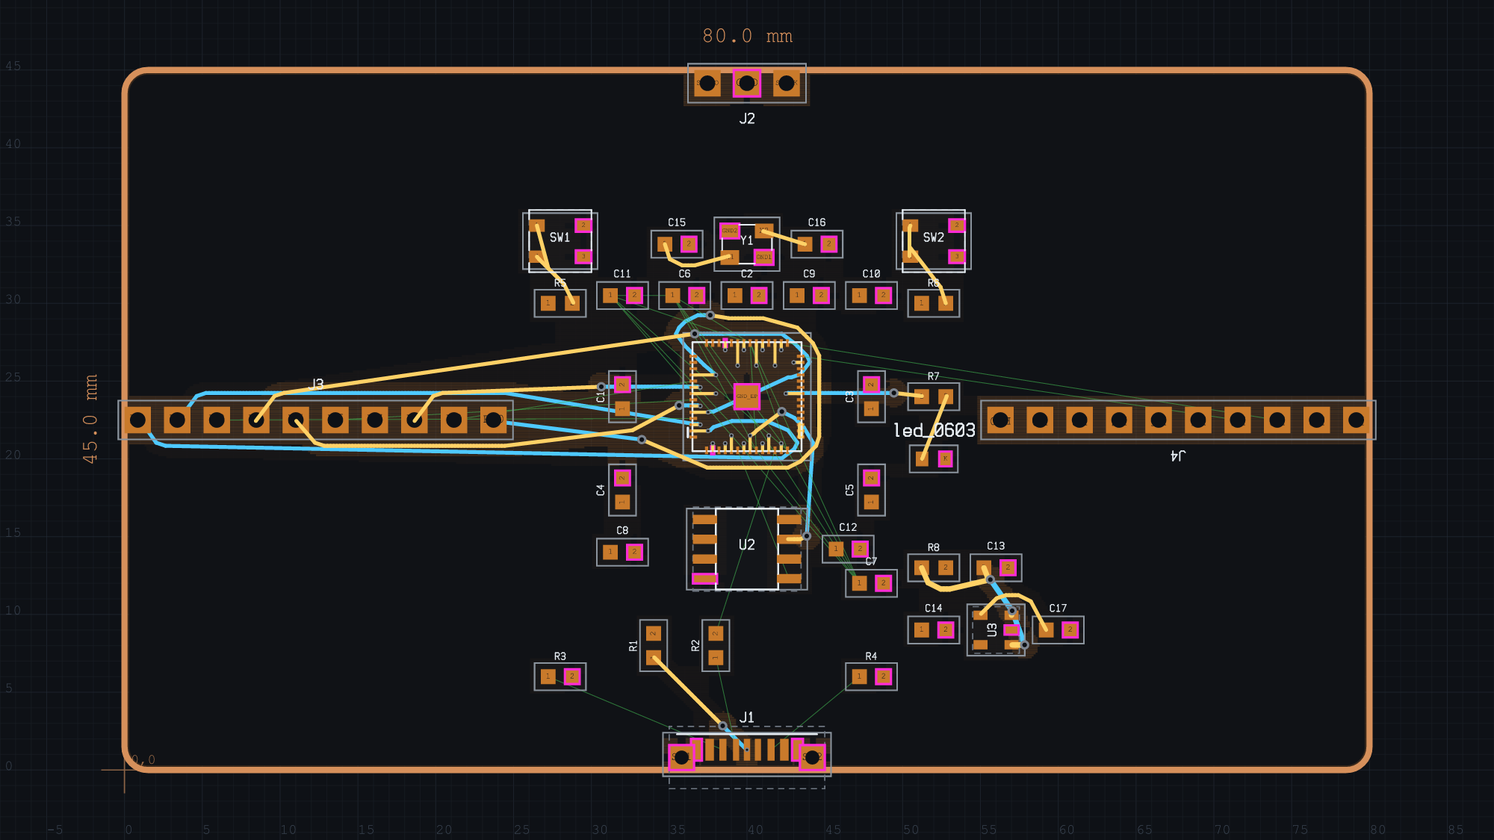
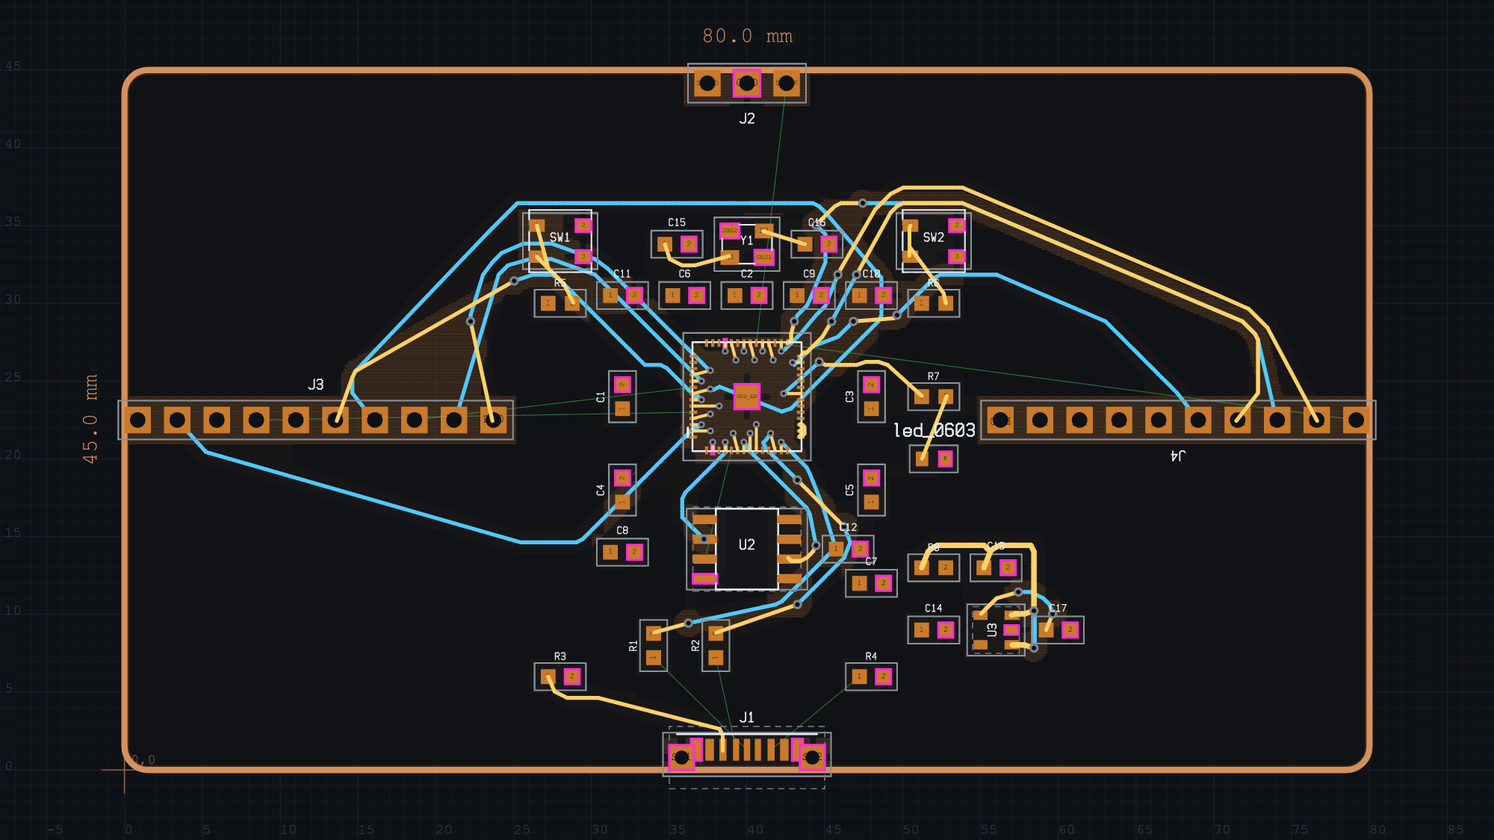
docs(stress): v6 — negotiation rules congestion OUT; the wall is escape geometry
Measured back to back on one binary at max_seconds=180, 2 layers: the
default rip-up-and-reroute driver gives 20/39 (951 traces / 46 vias, 4
passes, 180.2 s, 0 clearance errors) — byte-identical to the saved board,
so the refactor is behaviour-neutral — and `route negotiate=true` gives
17/39 (777 / 41, 5 iterations, 180.1 s, 0 clearance errors).

Negotiation losing is the useful result. Allowed to route straight through
every other net's copper, 12-13 of the 39 nets STILL cannot be routed, and
every one fails at a U1 pad; the over-subscribed cells are all bottom-layer
inside a ~4 x 4 mm patch on U1. So O1 is not inter-net congestion (v6) and
not the clearance rule (v5): a 0.25 mm trace at the 0.12 mm area rule needs
0.245 mm from centreline to foreign copper, while two 0.4 mm-pitch pads
leave a 0.2 mm channel — no trace can pass between two QFN pins, every
escape must be a via, and the 25 dogbone landings then wall each other off.

Priority A is rewritten accordingly: escape-slot assignment (which pad
escapes where, so a legal lane survives to each landing) instead of more
router work, with "nets blocked even when allowed to share" as the metric
to drive to zero.

Claude-Session: https://claude.ai/code/session_0146NvsGPbXnXBz52MizmKik

diff --git a/stress/AGENT-HANDOFF.md b/stress/AGENT-HANDOFF.md
@@ -22,13 +22,33 @@ We recreated a **minimal RP2040 board** (bare QFN-56 + QSPI flash + crystal + US
 | Router on **bare 0.4 mm QFN-56, 2-layer** | **Still the wall** — partial copper only |
 | Wall-clock / agent hang risk | **Fixed** with `max_seconds` + A* caps (was 6–10+ min silent hangs) |
 
-**Latest board metrics** (`stress/rp2040-minimal.fragua`, **v5 pass — clearance rule areas**; the saved file now carries `fab-rules jlcpcb-2l` + the `fine` rule area around U1 as design intent):
+**Latest board metrics** (`stress/rp2040-minimal.fragua`, **v6 pass — negotiated congestion measured, default driver unchanged**; the saved file now carries `fab-rules jlcpcb-2l` + the `fine` rule area around U1 as design intent):
 
 - Outline **80 × 45 mm**, 36 footprints, 39 nets, 36 symbols
 - Saved state: **951 traces**, **46 vias** (25 fanout, 25 dogbones with copper stubs), **20/39 nets fully connected** @ `max_seconds=180`
 - DRC **4 errors / 74 warnings** — **zero clearance errors** (was 7, all 0.125–0.175 mm at the QFN). The 4 are `NetSplit`: a fanned-out pad whose net the router still fails to finish is an isolated copper island. Same O1 wall, different symptom.
 - One `RuleBelowFabLimit` warning: the area's 0.12 mm clearance is 5 µm under JLCPCB's 0.127 standard tier. Deliberate, and re-reported by every `drc` / `view`.
 - **Back-to-back baseline on the same binary with the area removed: 1544 traces / 57 vias, 21/39, 7E / 70W** — i.e. the rule area traded one net of connectivity for legality. See §5 O10.
+
+**v6 measurement (2026-07-27, same binary, back to back, idle machine, 2-layer, `max_seconds=180`):**
+
+| Driver | Copper | Fully connected | Passes / iterations | Elapsed | DRC |
+|--------|--------|-----------------|---------------------|---------|-----|
+| default (rip-up-and-reroute) | 951 traces / 46 vias | **20/39** | 4 passes | 180.2 s | 4E / 74W, 0 clearance errors |
+| `route negotiate=true` (PathFinder) | 777 traces / 41 vias | **17/39** | 5 iterations | 180.1 s | 4E / 78W, 0 clearance errors |
+
+The default path is byte-identical to the saved board (same 951/46, same
+21 failed nets, same 4 passes), so the v6 refactor is behaviour-neutral and
+the saved project was left untouched. Note the two metrics in circulation:
+the script's headline `N/39 fully connected` counts board connectivity
+(20), while `stress_board_probe`'s `39 - failed` counts routable nets the
+search finished (18) — same board, two frames.
+
+**The v6 finding (this is the part that matters):** with sharing allowed —
+every net free to route straight through every other net's copper — **12–13
+of the 39 nets still cannot be routed at all**, and every one of them fails
+at a U1 pad. The plateau is therefore NOT inter-net congestion. See O1
+below.
 
 **Previous metrics** (v4 pass — dogbone stubs + stagger + no fine-pitch moat):
 
@@ -59,6 +79,11 @@ We recreated a **minimal RP2040 board** (bare QFN-56 + QSPI flash + crystal + US
 13. `f00bb55` — pairwise, area-aware clearance in the grid search and fanout
 14. `130a1a9` — `rule-area*` / `fab-rules` script verbs, area-aware reports
 15. `d5babaf` — via-in-pad must fit its pad; areas own the fab floor inside them  
+
+**v6 commits (negotiated congestion, 2026-07-27):**
+
+16. `828140a` — PathFinder-style negotiated congestion (`route negotiate=true`)
+17. `030da22` — regression tests: order-dependence fixed, routing reproducible
 
 **Related pre-existing product TODO** (not finished here): PCB compaction for fecha-gateway-v3 — see root `TODO.md`.
 
@@ -326,8 +351,8 @@ See §5.
 
 | ID | Problem | Evidence | Suggested direction |
 |----|---------|----------|---------------------|
-| O10 | **Rule areas make fine pitch legal, not routable** | With `fab-rules jlcpcb-2l` + `rule-area-around U1 fine margin=1.5 clearance=0.12 via_drill=0.20 via_dia=0.45`: clearance errors **7 → 0**, connectivity **21 → 20/39**, and 4 new `NetSplit` errors (a fanned pad whose net still fails is an isolated island). At the default 0.20 mm cell a 0.12 mm rule quantises to the SAME 3-cell search radius as 0.20 mm for a 0.25 mm signal (`ceil((clr + w/2)/cell) + 1` guard cell), so the search sees no extra room; only 0.5 mm power nets drop a cell. `cell=0.15` does exploit it geometrically but starves the budget (2 passes instead of 4) → 19/39 | The rule was never the binding constraint — escape-corridor congestion is. Next: PathFinder / negotiated congestion and rip-up that can evict routed fat nets (O1). A cheaper follow-up: drop fanout copper for pads the router never lands on, which would delete the `NetSplit` class outright (deliberately NOT done here — it would change the no-rule-area baseline) |
-| O1 | **Cannot fully route bare QFN-56 on 2L** — now **21/39** (was 5/39) but **plateaued**; v5 confirmed the wall is congestion, not the clearance rule (see O10) | Same 18 nets fail at 180 s and 600 s (QSPI, USB, SWD, XIN/RUN, GPIOs on U1 left/top/bottom, +1V1, VBUS, CC2); hints blame U1 pads as outliers | Escape congestion, not search time: the +3V3 ring and early-routed nets hog the corridors. Try reduced clearance class near fine-pitch, targeted rip-up of fat power nets, more dogbone depth slots |
+| O10 | **Rule areas make fine pitch legal, not routable** | With `fab-rules jlcpcb-2l` + `rule-area-around U1 fine margin=1.5 clearance=0.12 via_drill=0.20 via_dia=0.45`: clearance errors **7 → 0**, connectivity **21 → 20/39**, and 4 new `NetSplit` errors (a fanned pad whose net still fails is an isolated island). At the default 0.20 mm cell a 0.12 mm rule quantises to the SAME 3-cell search radius as 0.20 mm for a 0.25 mm signal (`ceil((clr + w/2)/cell) + 1` guard cell), so the search sees no extra room; only 0.5 mm power nets drop a cell. `cell=0.15` does exploit it geometrically but starves the budget (2 passes instead of 4) → 19/39 | The rule was never the binding constraint. Nor is escape-corridor *congestion*: v6's negotiation (O1) showed a dozen nets cannot reach their pads even with unlimited sharing. What is left is escape-slot geometry. A cheaper follow-up: drop fanout copper for pads the router never lands on, which would delete the `NetSplit` class outright (deliberately NOT done here — it would change the no-rule-area baseline) |
+| O1 | **Cannot fully route bare QFN-56 on 2L** — **20/39**, plateaued. v5 ruled out the clearance rule (O10); **v6 ruled out inter-net congestion** | With PathFinder negotiation (`route negotiate=true`) every net may route straight THROUGH every other net's copper, and **12–13 nets still fail**, all at U1 pads (`GPIO0→U1.2`, `GPIO3→U1.5`, `SWCLK→U1.23`, `SWDIO→U1.24`, `XOUT→U1.20`, `QSPI_SS→U1.54`, `QSPI_SD2→U1.52`, `QSPI_SD3→U1.49`, `+3V3→U1.46`, `HDRB1→U1.26`, plus `USB_DM/USB_DP/VBUS/CC2` at their series resistors). The over-subscribed cells are all on the BOTTOM layer in a ~4 × 4 mm patch centred on U1 (40–43, 21–27 mm) | **It is fixed geometry, not contention.** A 0.25 mm trace at the area's 0.12 mm rule needs 0.245 mm from centreline to any foreign copper edge; two adjacent 0.4 mm-pitch pads leave a 0.2 mm channel — *no trace can pass between two QFN pins*, so every escape must be a via, and the 25 dogbone landings (stamped on every layer, un-rippable) then wall each other off. The next lever is **escape-slot assignment**: choose which pad gets which dogbone, at which depth, so a legal lane survives to each one (a flow / matching problem over the escape ring). Negotiation cannot help until the lanes exist |
 | O2 | ~~Report vs board copper counts diverge~~ **FIXED** (`489c1af`, `8448a2d`) | route/drc text now reports final board copper, per-net failures, hints, budget flag | — |
 | O3 | ~~Body stamp moat fights fine-pitch escape~~ **FIXED** (`71cf4ef`) | No body stamp for SMD packages with pad pitch < 0.5 mm; modules/TH keep it | — |
 | O8 | ~~**≥3-layer path regresses instead of helping**~~ **FIXED** (2026-07-27, commits `8d9fc9e` / `a14c26a` / `62726aa`) | Was: `layer add In1.Cu/In2.Cu signal` + `route max_seconds=180` → **1/39**, search laid 0 segments, elapsed 214 s. Now (same board, same budget, back-to-back on one machine): **2L 21/39 in 4 passes, 3L 22/39, 4L 22/39 in 3 passes**, elapsed 180.0–180.2 s. Root cause was **not** grid size or pop caps: `plan_escapes` swapped strategy at 3 layers and ran the fine-grid stub escape **instead of** the VIP/dogbone fanout. On a 0.4 mm QFN-56 the fan cannot fit (one 14-pin row would need ~13 mm of perpendicular room at the 1.0 mm breakout spread), so it spent **24 s of a 90 s budget to free 5 pads** where the fanout frees **25 in 10 ms** — the coarse router then had nothing to land on. The 34 s overrun was a second bug: the budget was only checked BETWEEN nets, so one long A* ran past it. Fix: the fanout is the baseline on **every** stackup (`fanout::plan_footprint` per footprint); fine escape is an optional per-footprint improvement, kept only when the fanout left pads stranded AND the fan fits AND it frees ≥ as many pads, bounded by a per-footprint time slice and a per-search pop cap — and, since it did not earn its keep on any board we measure, it is now **opt-in** (`route fine_escape=true` / `RouteOptions::fine_escape`, default off). A* searches now also carry the pass deadline (`astar::Limits`), so `max_seconds` is honoured to the second. Pinned by `crates/pcb-router/tests/layer_count_monotonic.rs`. Gotcha still applies: `clear-route` BEFORE `layer remove`, else copper left on the inner layer blocks the removal |
@@ -364,6 +389,7 @@ See §5.
 1. Collect nets from pad assignments.  
 2. **`plan_escapes`** → either fine-escape (≥3L + fine cell) or **`plan_fanout`** (VIP + dogbone on 2L).  
 3. Order nets (few pads first; fanned nets prioritized; diff-pair adjacency).  
+3b. **Optional** (`route negotiate=true`): PathFinder negotiated congestion (`negotiate.rs`) — see §6.5. Converged ⇒ done; otherwise the passes below still run on the remaining budget and the better board wins.  
 4. Up to **3 RR&R passes** with congestion bias (skipped early if budget exhausted).  
 5. Optional clean-board rip-up pass.  
 6. Commit best board; add fanout vias + escape stubs.  
@@ -384,12 +410,45 @@ See §5.
 | `crates/pcb-router/src/router.rs` | Driver, `RouteOptions`, budget, progress |
 | `crates/pcb-router/src/fanout.rs` | VIP + **dogbone**, cluster detection |
 | `crates/pcb-router/src/escape.rs` | Fine-grid stubs (3L+); budget fraction for escape |
-| `crates/pcb-router/src/astar.rs` | Search + pop cap |
+| `crates/pcb-router/src/astar.rs` | Search + pop cap; `Negotiate` = sharing-aware mode |
+| `crates/pcb-router/src/negotiate.rs` | **PathFinder negotiated congestion** — sharing, history, conflict-driven rip-up, legal extraction, corridor autopsy |
 | `crates/pcb-router/src/grid.rs` | `stamp_bodies` / pads / drilled disks — **moat knobs**; `ClearanceModel` + `AreaField` (per-net, per-cell clearance) |
 | `crates/pcb-core/src/rules.rs` | **`RuleArea` + `RuleResolver`** — the ONLY place the clearance rule is derived. Router, fanout, organic, topo and DRC all go through it; never re-derive it |
 | `crates/pcb-placer/src/lib.rs` | SA + **pull_passives_to_anchors** |
 | `crates/pcb-script/src/tools.rs` | HTTP-facing tool text, route wiring |
 | `crates/pcb-script/src/script.rs` | DSL parse |
+
+### 6.5 Negotiated congestion (`negotiate.rs`) — what it does and what it costs
+
+`route negotiate=true`. One iteration = route every pending net with foreign
+TRACE/VIA copper treated as *shareable at a price*, then find who still
+shares, raise the per-cell **history** cost there, rip up only those nets,
+repeat. Present price ramps 1 → 3 → 9 → … cells of detour per shared cell;
+history adds 2 per iteration (capped 96).
+
+Three things are worth knowing before touching it:
+
+1. **Clearance vs sharing.** The resource a net consumes is its copper plus
+   a *pairwise* halo. Rather than inflating claims (far too conservative —
+   two nets whose halos touch can be perfectly legal), the code keeps the
+   exact asymmetric test the DRC uses (copper stamped bare, each net scans
+   its own `clearance + half-width` disk) and only softens the verdict:
+   foreign trace copper in the disk = shareable, foreign PAD copper = hard.
+   A pad cannot be ripped up, so a pad-halo violation could never be
+   negotiated away. Because the price comes from the same disk test that
+   decides legality, **"zero conflicts" is exactly "DRC-legal copper"**.
+2. **A shared state is never a result.** `extract_legal` lays negotiated
+   geometry only where it passes the ordinary hard clearance test and
+   hard-routes the rest, so the driver's best-so-far comparison only ever
+   sees legal boards. `max_seconds` is honoured to the second (measured
+   180.1 s on a 180 s budget).
+3. **It is off by default and the measurement says why** — see §0 and O1.
+   Its real product value here is the autopsy it prints into the route
+   hints: `congestion: layer L around (x, y) mm — N over-subscribed
+   cell-iteration(s)` and `congestion: net X is blocked even when allowed
+   to share every foreign trace — …`. That is how the O1 verdict was
+   reached, and it is the cheapest way to re-check it after any change to
+   the fanout or the placement.
 
 ### 6.4 RouteOptions knobs (script)
 
@@ -400,6 +459,7 @@ route
   cell=0.20
   via_drill=0.30 via_diameter=0.60 via_cost=8
   max_seconds=90          # 0 = unlimited
+  negotiate=false         # true = PathFinder negotiated congestion (§6.5)
   engine=grid|topo
   organic=true|false
   fillet=3
@@ -420,10 +480,28 @@ cells, so at `cell=0.20` a 0.12 and a 0.20 rule are the same 3 cells for a
 
 *(2026-07-27 v4 update: items 1–3 of the old Priority A are DONE — instrumentation, no fine-pitch body stamp, dogbone stubs + stagger. Result 5→21/39 with a hard plateau. Item 4 was probed and REGRESSES — see O8.)*
 
-### Priority A — Break the 21/39 plateau (router)
+### Priority A — Break the 20/39 plateau (it is an ESCAPE problem, not a routing one)
 
-1. **Corridor autopsy.** The same 18 nets fail at any budget. Dump which cells around U1 are blocked per layer after fanout (debug render or grid stats) and identify what owns the corridors — hypothesis: the +3V3 ring (11 pads, routed early, wide class) plus GND stubs wall off the QFN quadrants. The route hints already name U1 outlier pads.
-2. **Rip-up that can evict fat nets.** RR&R currently biases by congestion but the failing fine-pitch nets never get the corridor back. Let late passes rip *routed* wide-class nets crossing a failing net's bounding corridor, not only failed ones.
+1. ~~**Corridor autopsy.**~~ **DONE (v6).** `route negotiate=true` prints it:
+   the over-subscribed cells are all bottom-layer inside a ~4 × 4 mm patch on
+   U1 (40–43, 21–27 mm), and 12–13 nets cannot reach their U1 pad even when
+   allowed to share every foreign trace. The hypothesis that the +3V3 ring
+   hogs corridors is **wrong** — the corridors are walled by pads and by the
+   fanout's own via landings, none of which any router can move.
+2. ~~**Rip-up that can evict fat nets.**~~ **SUPERSEDED (v6).** Negotiated
+   congestion is the general form of this (every net can evict every other,
+   by price) and it does not move the number: what fails, fails against
+   fixed copper.
+3. **Escape-slot assignment (the actual next step).** `fanout::plan_footprint`
+   picks a dogbone per pad in isolation. It should pick the *set* — which pad
+   escapes at which depth/direction — so that a legal lane survives to every
+   landing: a flow / matching problem over the escape ring, with the lane
+   width taken from the resolved rule (0.245 mm centreline clearance at the
+   `fine` area, versus a 0.2 mm inter-pad channel — so lanes must be vias,
+   and the vias must be staggered to leave routing space between them).
+   Verify with `route negotiate=true`: the count of "blocked even when
+   allowed to share" is the direct measure of progress, and it should fall
+   toward zero before any effort goes back into the search.
 3. ~~**Reduced clearance class near fine-pitch.**~~ **DONE (v5, see O10).** `rule-area` + `fab-rules` shipped and the 7 clearance errors are gone, but connectivity did not move: the tighter rule quantises away at a 0.20 mm cell, so it removes the *legality* problem and leaves the *congestion* problem. Do 1/2 (corridor autopsy, evicting rip-up) next.
 4. **More dogbone depth slots.** 24 dogbones landed; U1 alone has ~34 signal pads. Widen `dogbone_via_candidates` depth ladder so a full QFN row fans out.
 
@@ -482,6 +560,10 @@ O8_LAYERS=4 O8_SECS=180 cargo test --release -p pcb-router \
     --test stress_board_probe -- --ignored --nocapture
 ```
 
+To take the same numbers with negotiated congestion, add `negotiate=true`
+to the script `route` line, or set `negotiate: true` in the probe's
+`RouteOptions` — the probe prints the corridor autopsy lines either way.
+
 `O8_LAYERS` appends inner signal layers exactly like `layer add In1.Cu signal`. Connectivity is printed as `failed/routable`; `39 - failed` is the same number the script reports as `N/39 net(s) fully connected`. Numbers are **load-sensitive** (see O9) — take the stackups you are comparing back-to-back on an idle machine, and compare runs at the same pass count.
 
 **Rebuild schematic from scratch** (destroys placement): run contents of `stress/01_schematic.fragua.txt` via POST `/script` (long), then re-place using `edge-place` + clustered place script (see session logs `05_edgeplace_result.txt` patterns).
@@ -526,7 +608,7 @@ Suggested acceptance criteria an agent can optimize toward:
 
 ## 11. Quick “if you only read one section”
 
-Fragua **can** do agent-driven schematic + place + partial route on a Pico-class design. The **hard open problem** is **2-layer fine-pitch QFN routing**, not the script API. The v4 pass (true dogbone stubs, rank-staggered fanout, no body stamp under fine-pitch, board-truthful reports) took connectivity **5/39 → 21/39 @ 180 s**, but it **plateaus**: 600 s returns the identical 18 failed nets, and 4 layers only buy one more net (22/39, O8 — the collapse to 1/39 is fixed, but extra copper layers are not the answer either). The wall is **escape-corridor congestion around U1** — attack rip-up of fat routed nets, reduced clearance near fine-pitch, and more dogbone depth slots (§7) before inventing a new product surface.
+Fragua **can** do agent-driven schematic + place + partial route on a Pico-class design. The **hard open problem** is **2-layer fine-pitch QFN routing**, not the script API. The v4 pass (true dogbone stubs, rank-staggered fanout, no body stamp under fine-pitch, board-truthful reports) took connectivity **5/39 → 21/39 @ 180 s**, but it **plateaus**: 600 s returns the identical 18 failed nets, and 4 layers only buy one more net (22/39, O8 — the collapse to 1/39 is fixed, but extra copper layers are not the answer either). v6 then settled *what* the wall is: PathFinder-style negotiated congestion (`route negotiate=true`) lets every net route through every other net's copper, and **a dozen nets still cannot reach their U1 pads**. So it is not contention and not the rule — it is the **escape geometry** (0.4 mm pins leave a 0.2 mm channel where a legal trace needs 0.245 mm, so every escape is a via, and the 25 dogbone landings wall each other off). Next step is escape-slot assignment (§7 Priority A.3), not another search.
 
 ---
 
@@ -555,4 +637,4 @@ curl -s http://127.0.0.1:7878/script -H 'content-type: application/json' \
 
 ---
 
-*Document written 2026-07-27 for handoff. Update this file when O1 (full QFN route) moves.*
+*Document written 2026-07-27 for handoff; v6 (negotiated congestion) folded in the same day. Update this file when O1 (full QFN route) moves.*

diff --git a/stress/README.md b/stress/README.md
@@ -79,6 +79,57 @@ compute time. **4-layer probe:** fixed in the O8 pass — `layer add In1/In2`
 now gives 22/39 at 180 s (was a 1/39 collapse), so extra copper layers help,
 barely; they are not the answer either.
 
+### v6 (2026-07-27) — PathFinder negotiated congestion, and what it proved
+
+`route negotiate=true` swaps the rip-up-and-reroute driver for
+**negotiated congestion**: every net takes its shortest path first (foreign
+traces are shareable at a price, foreign pads are not), the corridors they
+fight over get progressively more expensive, and only the nets that share
+copper are ripped and rerouted. It converges to legal copper or falls back
+to the classic passes with the budget it has left — the better board wins
+either way, and a shared (illegal) state is never offered as a result.
+
+| Run (2-layer, `route max_seconds=180`, same binary, back to back) | Copper | Fully connected | Passes / iterations | DRC |
+|---|---|---|---|---|
+| default driver (RR&R) | 951 traces / 46 vias | **20/39** | 4 passes | 4E / 74W, **0 clearance errors** |
+| `route negotiate=true` | 777 traces / 41 vias | **17/39** | 5 iterations | 4E / 78W, **0 clearance errors** |
+
+**Negotiation loses here, and the reason is the interesting part.** With
+sharing allowed — i.e. every net free to route straight through every other
+net's copper — **12–13 of the 39 nets still cannot be routed at all**:
+
+```
+congestion: net GPIO0 is blocked even when allowed to share every foreign
+            trace — no path to pad U1.2 at (36.55, 21.80) mm
+congestion: net SWCLK  ... no path to pad U1.23 at (40.60, 27.45) mm
+congestion: net QSPI_SS ... no path to pad U1.54 at (38.20, 20.55) mm
+congestion: layer 1 around (41.0, 23.0) mm — 85 over-subscribed cell-iteration(s)
+```
+
+Every one of them is a U1 pad, and the over-subscribed cells are all on the
+bottom layer inside a ~4 × 4 mm patch centred on U1 (40–43, 21–27 mm). So
+the wall is **not** inter-net contention, which is exactly what PathFinder
+exists to resolve — it is **fixed geometry**: the QFN's own pad halos and
+the fanout's 25 dogbone via landings, which are stamped on every layer and
+cannot be ripped up. Do the arithmetic and it is unavoidable: a 0.25 mm
+trace at the area's 0.12 mm rule needs 0.245 mm from its centreline to any
+foreign copper edge, while two adjacent 0.4 mm-pitch pads leave a 0.2 mm
+channel. **No trace can pass between two QFN pins**, so every escape has to
+be a via, and the vias then wall each other off.
+
+That is a result for the *escape planner*, not the router: the dogbone
+landings are chosen per pad without checking that a legal lane survives to
+each one. Assigning escape slots so that lanes exist (a flow / matching
+problem) is the next lever — negotiation cannot help until the lanes are
+there.
+
+Negotiation is therefore **opt-in**, not the default: it is the right
+algorithm when the wall really is contention (see
+`crates/pcb-router/tests/negotiated_congestion.rs`, where it takes the
+corridor away from the net that can afford a detour and gives it to the one
+that cannot — from either routing order), and on this board it is worth
+running for the autopsy alone.
+
 ### What works
 
 - End-to-end agent loop: libs → confirm → schematic → place → route → screenshot
@@ -92,10 +143,12 @@ barely; they are not the answer either.
 
 1. **QFN-56 full connectivity on 2 layers** — dogbone stubs + no fine-pitch
    body moat took us 5→21/39, and it plateaus there regardless of budget.
-   Rule areas (v5) made the escape *legal* but not *routable*: the wall is
-   escape-corridor congestion, so the next levers are PathFinder-style
-   negotiated congestion and rip-up that can evict the fat +3V3 ring, not
-   another rule.
+   Rule areas (v5) made the escape *legal* but not *routable*, and
+   negotiated congestion (v6) proved the remaining wall is not contention
+   at all: a dozen nets cannot reach their U1 pads even when allowed to
+   share every foreign trace. The next lever is escape-slot assignment
+   (which pad gets which dogbone, so that a legal lane survives), not the
+   router.
 2. **4-layer path** — fixed (O8): 3L/4L now reach 22/39 inside budget, one
    net better than 2L. Extra layers cost ~1.5× per pass, so they buy far
    less than the fine-pitch wall costs.
@@ -110,6 +163,11 @@ barely; they are not the answer either.
 - **Router:** 2-layer dogbone fanout; `max_seconds` + progress; scaled A*
   pop cap; skip organic when budget hit
 - **Placer:** pull passives toward net anchors after SA
+- **v6 pass:** PathFinder-style negotiated congestion in
+  `pcb-router/src/negotiate.rs` (`route negotiate=true`) — sharing-aware
+  A* mode, per-cell history, conflict-driven rip-up, legal extraction,
+  corridor autopsy in the route hints; regression tests for the
+  order-dependence it fixes and for determinism
 - **v5 pass:** `RuleArea` + one shared clearance resolver in `pcb-core`
   (router grid, fanout, organic and DRC all read it); pairwise per-net
   clearance in the search (a net now honours its neighbour's stricter
